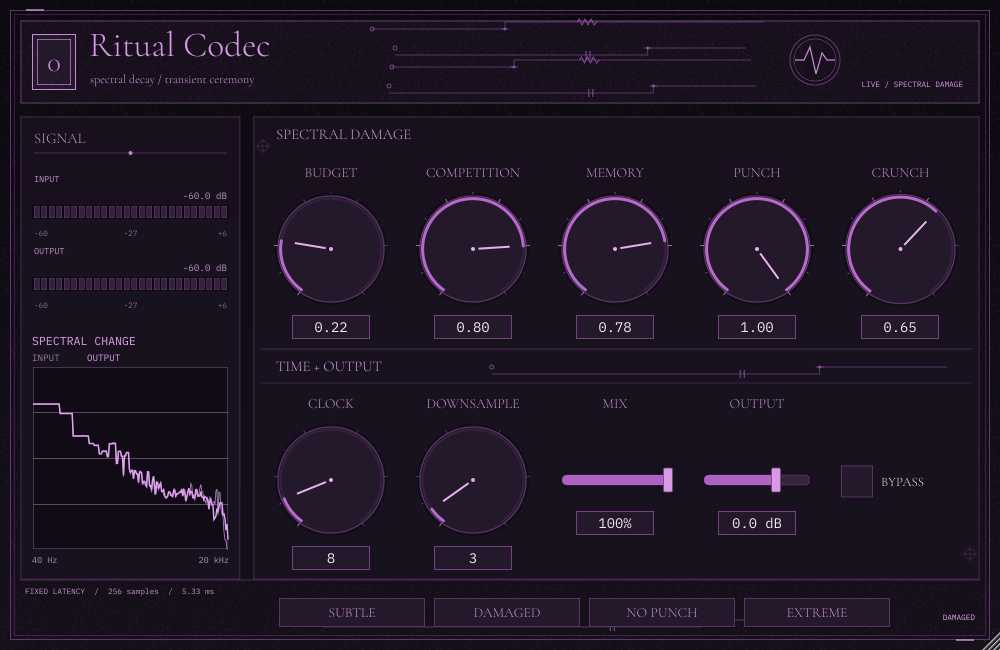
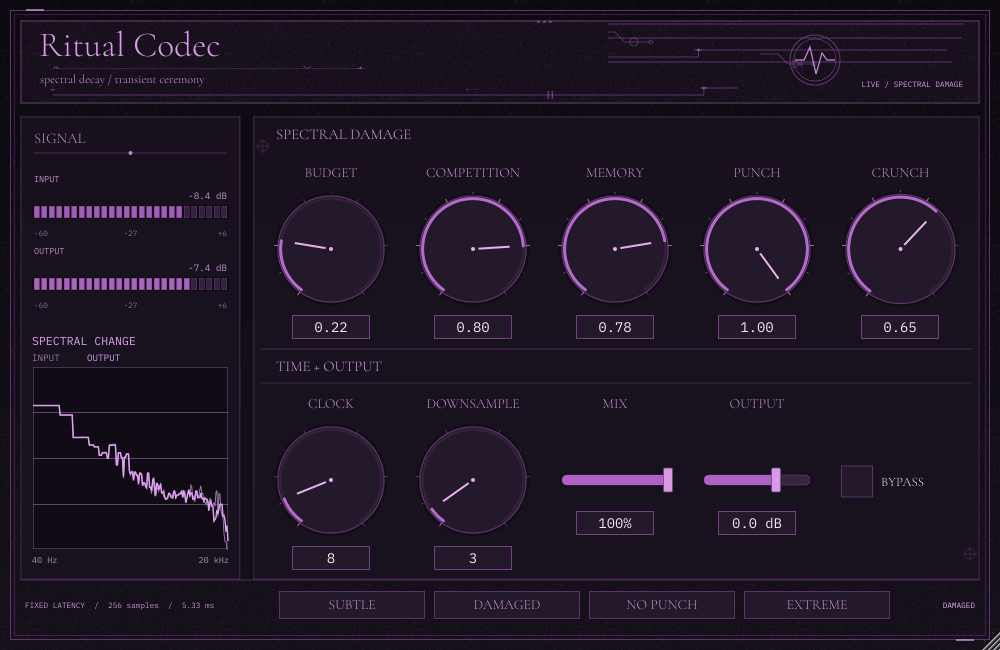
Expand header circuitry, remove badge and align footer controls

diff --git a/plugin/PluginEditor.cpp b/plugin/PluginEditor.cpp
@@ -869,20 +869,37 @@ void RitualAudioProcessorEditor::paint (juce::Graphics& g)
     g.fillRect (header);
     g.setColour (lineColour.withAlpha (0.84f));
     g.drawRect (header.reduced (0.5f), 1.0f);
-    auto badge = juce::Rectangle<float> (44.0f, 56.0f)
-                     .withX (header.getX() + 12.0f)
-                     .withY (header.getCentreY() - 28.0f);
-    g.setColour (panelRaisedColour.withAlpha (0.94f));
-    g.fillRect (badge);
-    g.setColour (accentBrightColour.withAlpha (0.9f));
-    g.drawRect (badge, 1.0f);
-    g.drawRect (badge.reduced (5.0f), 0.7f);
-    g.setFont (makeFont (31.0f, juce::Font::bold));
-    g.drawText ("0", badge, juce::Justification::centred, false);
-
-    const auto circuitArea = header.withTrimmedLeft (340.0f).withTrimmedRight (205.0f);
-    for (int i = 0; i < 4; ++i)
+    // Full-width routing, with staggered branches and distinct component symbols.
+    g.saveState();
+    g.excludeClipRegion (titleLabel.getBounds().expanded (4, 0));
+    g.excludeClipRegion (subtitleLabel.getBounds().expanded (4, 0));
+    g.excludeClipRegion (statusLabel.getBounds().expanded (4, 0));
+    const auto circuitArea = header.reduced (4.0f, 2.0f);
+    for (int i = 0; i < 5; ++i)
+    {
         drawCircuitTrace (g, circuitArea, i, i % 2 != 0);
+        const float x = header.getX() + header.getWidth() * (0.12f + 0.17f * (float) i);
+        const float y = header.getY() + 12.0f + (float) (i % 3) * 22.0f;
+        juce::Path branch;
+        branch.startNewSubPath (x - 28.0f, y);
+        branch.lineTo (x - 10.0f, y);
+        branch.lineTo (x, y + 10.0f);
+        branch.lineTo (x + 26.0f, y + 10.0f);
+        g.setColour (accentColour.withAlpha (0.5f));
+        g.strokePath (branch, juce::PathStrokeType (0.8f));
+        if (i % 2 == 0)
+        {
+            juce::Path diode;
+            diode.addTriangle (x + 5.0f, y + 6.0f, x + 5.0f, y + 14.0f,
+                               x + 13.0f, y + 10.0f);
+            g.strokePath (diode, juce::PathStrokeType (0.8f));
+            g.drawLine (x + 14.0f, y + 6.0f, x + 14.0f, y + 14.0f, 0.8f);
+        }
+        else
+            g.drawEllipse (x + 5.0f, y + 6.0f, 8.0f, 8.0f, 0.8f);
+        g.drawEllipse (x + 24.0f, y + 8.0f, 4.0f, 4.0f, 0.8f);
+    }
+    g.restoreState();
     const auto pulseCentre = juce::Point<float> (header.getRight() - 165.0f,
                                                   header.getCentreY() - 2.0f);
     g.setColour (lineColour.withAlpha (0.85f));
@@ -921,10 +938,6 @@ void RitualAudioProcessorEditor::paint (juce::Graphics& g)
                 timingBand.getY(), 0.8f);
     g.drawLine (main.getX() + 8.0f, timingBand.getBottom(), main.getRight() - 8.0f,
                 timingBand.getBottom(), 0.55f);
-    for (int i = 0; i < 1; ++i)
-        drawCircuitTrace (g, timingBand.withTrimmedLeft (210.0f).withTrimmedRight (14.0f),
-                          i + 3, i % 2 == 0);
-
     // A few registration marks tie the two panels together.
     drawRegistrationMark (g, { main.getX() + 10.0f, main.getY() + 30.0f }, 5.0f,
                            accentColour, 0.3f);
@@ -935,7 +948,7 @@ void RitualAudioProcessorEditor::paint (juce::Graphics& g)
     // Footer rule and tiny calibration traces.
     g.setColour (lineColour.withAlpha (0.78f));
     g.drawLine (footer.getX(), footer.getY(), footer.getRight(), footer.getY(), 0.8f);
-    drawCircuitTrace (g, footer.withTrimmedLeft (280.0f).withTrimmedRight (100.0f), 5, true);
+
     // The texture is a cached image generated once in the constructor.
     if (! paperTexture.isNull())
     {
@@ -955,18 +968,18 @@ void RitualAudioProcessorEditor::resized()
 {
     auto content = getLocalBounds().reduced (20);
     auto header = content.removeFromTop (84);
-    titleLabel.setBounds (header.getX() + 64, header.getY() + 3,
+    titleLabel.setBounds (header.getX() + 14, header.getY() + 3,
                           juce::jmax (180, header.getWidth() - 390), 43);
-    subtitleLabel.setBounds (header.getX() + 65, header.getY() + 49,
+    subtitleLabel.setBounds (header.getX() + 15, header.getY() + 49,
                              juce::jmax (180, header.getWidth() - 410), 20);
     statusLabel.setBounds (header.getRight() - 238, header.getY() + 55, 226, 18);
 
     auto footer = content.removeFromBottom (50);
-    latencyLabel.setBounds (footer.getX(), footer.getY() + 2,
-                            juce::jmin (270, footer.getWidth() / 3), 18);
+    latencyLabel.setBounds (footer.getX(), footer.getCentreY() - 10,
+                            246, 20);
 
     auto presetStatusArea = footer.removeFromRight (78);
-    presetStatusLabel.setBounds (presetStatusArea.withTrimmedTop (25));
+    presetStatusLabel.setBounds (presetStatusArea.withSizeKeepingCentre (presetStatusArea.getWidth(), 20));
     footer.removeFromRight (8);
     footer.removeFromLeft (258);
     const auto gap = 7;
@@ -974,7 +987,7 @@ void RitualAudioProcessorEditor::resized()
     for (size_t i = 0; i < presetButtons.size(); ++i)
     {
         auto buttonArea = footer.removeFromLeft (buttonWidth);
-        presetButtons[i].setBounds (buttonArea.withTrimmedTop (17).withTrimmedBottom (2));
+        presetButtons[i].setBounds (buttonArea.withSizeKeepingCentre (buttonArea.getWidth(), 30));
         if (i + 1 < presetButtons.size())
             footer.removeFromLeft (gap);
     }
